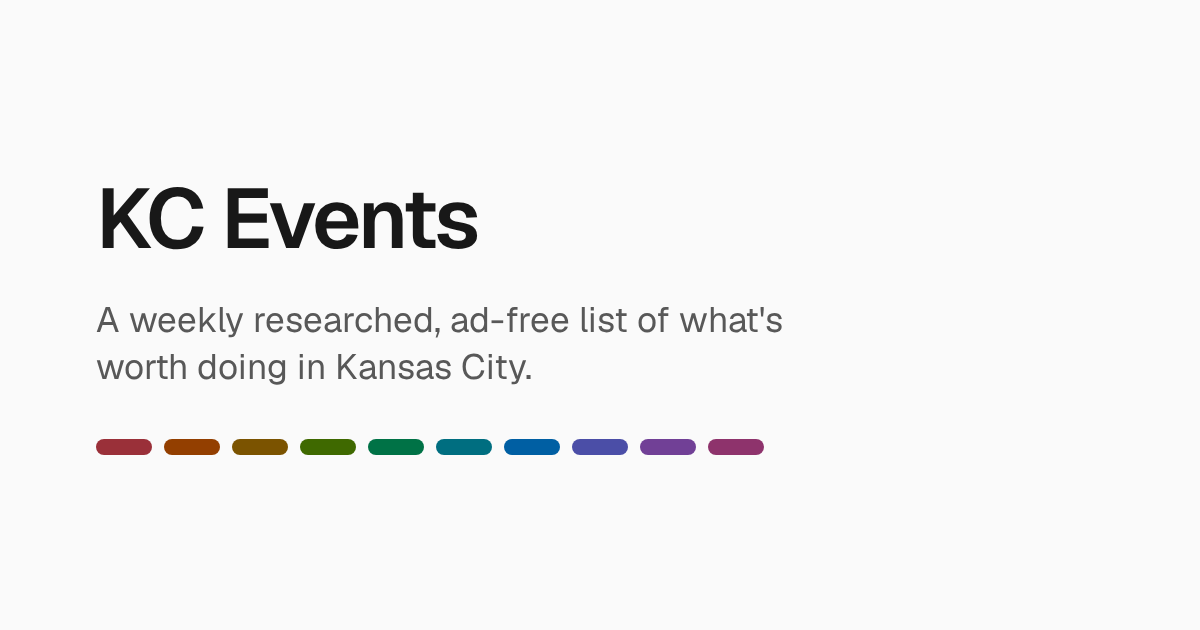
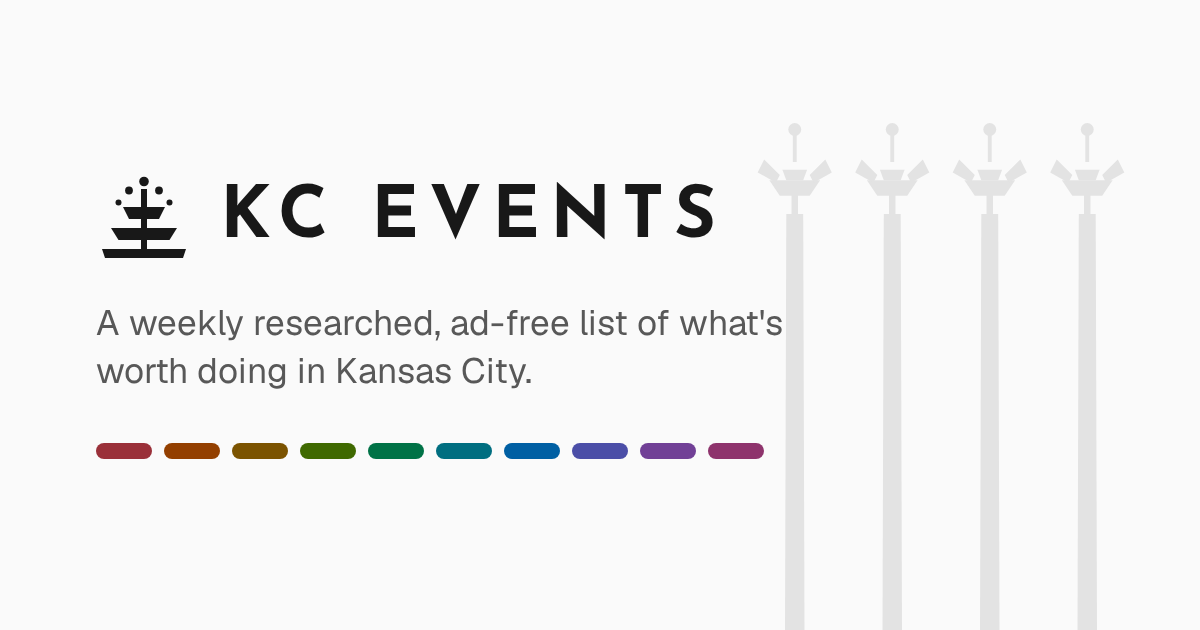
Give the site its Kansas City marks: a fountain, a Deco wordmark, the flag's red
The header sets the site's name as its one piece of display type, Josefin Sans in tracked
capitals for a skyline that is mostly Art Deco, behind a fountain mark for the City of
Fountains. The same mark is the home-screen icon and leads the share image, which now has
Bartle Hall's four pylons and their Sky Stations rising at its right in the rule's grey. The
tab's icon stays the date tile, which carries today's date.

Don't miss takes the city flag's red, as a solid pill where a kind's chip is a tint, so it is
never read as a kind; the focus ring moves a few degrees to the flag's blue. The footer says
the list covers both sides of the state line, Lawrence included.

The endpoints test accepts the own-page wording for "verified from" that #53 introduced; the
always-there guard still fails on the 2026-10-06 dataset (Crossroads returns 403), which this
change does not touch.

Changed region(s): [[0.0617, 0.2714, 0.6167, 0.4222], [0.0617, 0.4825, 0.6475, 0.6333], [0.0617, 0.6937, 0.6475, 0.754]]

diff --git a/site/scripts/share-image.html b/site/scripts/share-image.html
@@ -1,5 +1,5 @@
 <!doctype html>
-<!-- The 1200x630 share image. Rendered to public/og.png by share-image.ts, by hand, when the design changes; share-image.ts fills the tagline from site.config.ts. Light-scheme tokens copied inline; the swatches are the ten hued kinds. -->
+<!-- The 1200x630 share image. Rendered to public/og.png by share-image.ts, by hand, when the design changes; share-image.ts fills the tagline from site.config.ts and the mark from src/lib/mark.ts. Light-scheme tokens copied inline; the swatches are the ten hued kinds. The skyline is Bartle Hall's four pylons with their Sky Stations, in the rule's grey. -->
 <html lang="en">
   <head>
     <meta charset="utf-8" />
@@ -10,9 +10,15 @@
         font-weight: 100 900;
         src: url("../node_modules/@fontsource-variable/geist/files/geist-latin-wght-normal.woff2") format("woff2-variations");
       }
-      :root { --bg: oklch(0.985 0 0); --fg: oklch(0.21 0 0); --fg-muted: oklch(0.46 0 0); --text-2xl: 1.75rem; --text-xl: 1.375rem; }
+      @font-face {
+        font-family: "Josefin Sans";
+        font-weight: 700;
+        src: url("../node_modules/@fontsource/josefin-sans/files/josefin-sans-latin-700-normal.woff2") format("woff2");
+      }
+      :root { --bg: oklch(0.985 0 0); --fg: oklch(0.21 0 0); --fg-muted: oklch(0.46 0 0); --rule: oklch(0.915 0 0); --text-2xl: 1.75rem; --text-xl: 1.375rem; }
       html, body { margin: 0; width: 1200px; height: 630px; }
       body {
+        position: relative; overflow: hidden;
         background: var(--bg);
         color: var(--fg);
         font-family: "Geist Variable", system-ui, sans-serif;
@@ -23,15 +29,19 @@
         box-sizing: border-box;
         -webkit-font-smoothing: antialiased;
       }
-      h1 { margin: 0; font-size: calc(var(--text-2xl) * 3); font-weight: 600; letter-spacing: -0.035em; line-height: 1.05; }
+      /* The name as the header sets it: the fountain mark, then tracked capitals in the display face. */
+      h1 { margin: 0; display: flex; align-items: center; gap: 28px; font-family: "Josefin Sans", sans-serif; font-size: 72px; font-weight: 700; text-transform: uppercase; letter-spacing: 0.14em; line-height: 1; }
+      h1 svg { width: 96px; height: 96px; flex: none; }
       /* The kind palette, as a row of swatches: the site's colour is the kinds'. */
       .kinds { display: flex; gap: 12px; margin-top: 48px; }
       .kinds span { width: 56px; height: 16px; border-radius: 8px; }
-      p { margin: 32px 0 0; max-width: 22em; font-size: calc(var(--text-xl) * 1.6); line-height: 1.35; color: var(--fg-muted); }
+      p { margin: 32px 0 0; max-width: 20em; font-size: calc(var(--text-xl) * 1.6); line-height: 1.35; color: var(--fg-muted); }
+      /* Bartle Hall's pylons, behind the text at the right, rising from the bottom edge. */
+      .skyline { position: absolute; right: 64px; bottom: 0; width: 390px; height: 520px; color: var(--rule); }
     </style>
   </head>
   <body>
-    <h1>KC Events</h1>
+    <h1><span id="mark"></span>KC Events</h1>
     <p id="tagline"></p>
     <div class="kinds" aria-hidden="true">
       <span style="background: oklch(0.47 0.14 20)"></span><span style="background: oklch(0.47 0.14 56)"></span>
@@ -40,5 +50,23 @@
       <span style="background: oklch(0.47 0.14 245)"></span><span style="background: oklch(0.47 0.14 278)"></span>
       <span style="background: oklch(0.47 0.14 308)"></span><span style="background: oklch(0.47 0.14 345)"></span>
     </div>
+    <svg class="skyline" viewBox="0 0 300 400" fill="currentColor" aria-hidden="true">
+      <defs>
+        <!-- One pylon: a slender shaft under a Sky Station, the flared finial with a sphere above. -->
+        <g id="pylon">
+          <path d="M31 80h13l1 320H30z" />
+          <rect x="35" y="62" width="5" height="18" />
+          <path d="M18 54h39l-8 12H26z" />
+          <path d="M14 38l12 12-3 6-14-8zM61 38 49 50l3 6 14-8z" />
+          <path d="M28 46h19l-3 8H31z" />
+          <rect x="36" y="18" width="3" height="22" />
+          <circle cx="37.5" cy="15" r="5" />
+        </g>
+      </defs>
+      <use href="#pylon" x="0" />
+      <use href="#pylon" x="75" />
+      <use href="#pylon" x="150" />
+      <use href="#pylon" x="225" />
+    </svg>
   </body>
 </html>

diff --git a/site/src/styles/tokens.css b/site/src/styles/tokens.css
@@ -21,7 +21,11 @@
   /* Links, selection, and the saved state are ink, not a hue: a hue would read as one more kind. */
   --accent: oklch(0.21 0 0);
   --accent-fg: oklch(1 0 0);
-  --focus: oklch(0.55 0.2 260);
+  --focus: oklch(0.56 0.15 238);
+  /* The city flag's two colours (its 2023 design: carmine over NCS blue, a white fountain between). Red marks
+     don't-miss, the one state that is not a kind, as a solid pill where a kind's chip is a tint, so it is never read as
+     a kind; blue is the focus ring. Their lightness is set for the words on them, not the flag's. */
+  --flag-red: oklch(0.55 0.2 27); --flag-red-fg: oklch(1 0 0);
   /* A pressed filter that is not a kind: a grey tint under ink, the same shape as a pressed kind's tint and shade. */
   --pressed-tint: oklch(0.94 0 0);
   /* The kinds */
@@ -36,8 +40,10 @@
   --kind-music: oklch(0.47 0.14 308); --kind-music-tint: oklch(0.945 0.045 308);
   --kind-theater-dance: oklch(0.47 0.14 345); --kind-theater-dance-tint: oklch(0.945 0.045 345);
   --kind-other: oklch(0.48 0 0); --kind-other-tint: oklch(0.94 0 0);
-  /* Type: one sans, with tabular figures where numbers line up. */
+  /* Type: one sans, with tabular figures where numbers line up. The display face is for the site's name alone: a
+     1920s geometric, for a skyline that is mostly Art Deco; it never sets a label, a button, or a heading. */
   --font: "Geist Variable", system-ui, sans-serif;
+  --font-display: "Josefin Sans", var(--font);
   --text-xs: 0.75rem; --text-sm: 0.875rem; --text-md: 1rem; --text-lg: 1.125rem; --text-xl: 1.375rem; --text-2xl: 1.75rem; --text-3xl: 2.25rem;
   --weight-regular: 400; --weight-medium: 500; --weight-strong: 600;
   --tracking-display: -0.03em; --tracking-heading: -0.02em;
@@ -56,7 +62,8 @@
   :root {
     --bg: oklch(0.17 0 0); --bg-raised: oklch(0.205 0 0); --fg: oklch(0.94 0 0); --fg-muted: oklch(0.76 0 0);
     --fg-faint: oklch(0.67 0 0); --rule: oklch(0.28 0 0); --rule-strong: oklch(0.43 0 0); --control-border: oklch(0.53 0 0);
-    --accent: oklch(0.94 0 0); --accent-fg: oklch(0.17 0 0); --focus: oklch(0.72 0.15 260);
+    --accent: oklch(0.94 0 0); --accent-fg: oklch(0.17 0 0); --focus: oklch(0.75 0.13 235);
+    --flag-red: oklch(0.68 0.19 27); --flag-red-fg: oklch(0.17 0 0);
     --pressed-tint: oklch(0.30 0 0);
     --kind-talks-readings: oklch(0.82 0.11 20); --kind-talks-readings-tint: oklch(0.31 0.06 20);
     --kind-food-drink: oklch(0.82 0.11 56); --kind-food-drink-tint: oklch(0.31 0.06 56);

diff --git a/site/scripts/apple-touch-icon.ts b/site/scripts/apple-touch-icon.ts
@@ -1,15 +1,15 @@
 /**
- * Run as `pnpm exec tsx scripts/apple-touch-icon.ts` after changing src/lib/favicon.ts: renders the static tile (no
- * day) to the committed public/apple-touch-icon.png, 180 px square on white, because iOS fills a transparent icon with
- * black. The PNG carries the SVG it was drawn from as a text chunk, so a test can tell when it has gone stale.
+ * Run as `pnpm exec tsx scripts/apple-touch-icon.ts` after changing src/lib/mark.ts: renders the fountain mark to the
+ * committed public/apple-touch-icon.png, 180 px square on white, because iOS fills a transparent icon with black. The
+ * PNG carries the SVG it was drawn from as a text chunk, so a test can tell when it has gone stale.
  */
 import { writeFileSync } from "node:fs";
 import { chromium } from "@playwright/test";
-import { faviconSvg } from "../src/lib/favicon.ts";
+import { markSvg } from "../src/lib/mark.ts";
 import { withPngSource } from "../src/build/png-source.ts";
 const browser = await chromium.launch();
 const page = await browser.newPage({ viewport: { width: 180, height: 180 }, deviceScaleFactor: 1 });
-await page.setContent(`<body style="margin:0;background:#fff;display:grid;place-items:center;height:180px">${faviconSvg().replace("<svg ", '<svg width="140" height="140" ')}</body>`);
+await page.setContent(`<body style="margin:0;background:#fff;display:grid;place-items:center;height:180px">${markSvg().replace("<svg ", '<svg width="124" height="124" ')}</body>`);
 const png = await page.screenshot();
 await browser.close();
-writeFileSync(new URL("../public/apple-touch-icon.png", import.meta.url), withPngSource(png, faviconSvg()));
+writeFileSync(new URL("../public/apple-touch-icon.png", import.meta.url), withPngSource(png, markSvg()));

diff --git a/site/src/lib/mark.ts b/site/src/lib/mark.ts
@@ -1,0 +1,15 @@
+/**
+ * The site's mark: a fountain, for the City of Fountains. Three stepped basins under a jet and five drops, filled in
+ * currentColor so it takes the ink of wherever it sits: the header beside the name, the home-screen icon, the share
+ * image. (The tab's icon stays the date tile in favicon.ts, which carries today's date; the mark has no number to
+ * show.) Drawn as flat shapes so it reads at 20 px.
+ */
+export const MARK_VIEWBOX = "0 0 32 32";
+export const MARK_INNER =
+  '<circle cx="16" cy="3.5" r="1.6"/><circle cx="11" cy="6.5" r="1.3"/><circle cx="21" cy="6.5" r="1.3"/><circle cx="7.5" cy="10.5" r="1"/><circle cx="24.5" cy="10.5" r="1"/>' +
+  '<path d="M15 6h2v6h-2z"/><path d="M9 12h14l-2 4H11z"/><path d="M15 16h2v3h-2z"/><path d="M5 19h22l-2.5 4h-17z"/><path d="M15 23h2v3h-2z"/><path d="M2 26h28l-1 3H3z"/>';
+
+/** The mark as a standalone SVG in `ink` (a hex colour, since an image cannot read the page's tokens). */
+export function markSvg(ink = "#171717"): string {
+  return `<svg xmlns="http://www.w3.org/2000/svg" viewBox="${MARK_VIEWBOX}" fill="${ink}">${MARK_INNER}</svg>`;
+}

diff --git a/site/src/styles/base.css b/site/src/styles/base.css
@@ -59,15 +59,16 @@ p a, .prose a { text-decoration: underline; }
   white-space: nowrap;
 }
 
-/* Don't miss, in words and in ink, on an explorer row and an event page: it reads in grayscale and to a screen reader,
-   and no hue is mistaken for a kind. */
+/* Don't miss, in words and in the city flag's red, on an explorer row and an event page: solid where a kind's chip is
+   tinted, so no hue is mistaken for a kind, and it still reads in grayscale and to a screen reader. */
 .dont-miss {
   display: inline-flex; align-items: center;
   font-size: var(--text-xs);
   font-weight: var(--weight-medium);
   line-height: 1.6;
-  color: var(--fg);
-  border: 1px solid var(--fg);
+  color: var(--flag-red-fg);
+  background: var(--flag-red);
+  border: 1px solid var(--flag-red);
   border-radius: 999px;
   padding: 0 var(--space-2);
   white-space: nowrap;

diff --git a/site/test/mark.test.ts b/site/test/mark.test.ts
@@ -1,0 +1,19 @@
+// @vitest-environment node
+import { readFileSync } from "node:fs";
+import { describe, expect, it } from "vitest";
+import { pngSource } from "../src/build/png-source";
+import { MARK_INNER, markSvg } from "../src/lib/mark";
+
+describe("markSvg", () => {
+  it("is the fountain, filled in the given ink", () => {
+    expect(markSvg("#abc")).toBe(`<svg xmlns="http://www.w3.org/2000/svg" viewBox="0 0 32 32" fill="#abc">${MARK_INNER}</svg>`);
+    expect(markSvg()).toContain('fill="#171717"');
+  });
+});
+
+describe("the committed apple-touch-icon", () => {
+  it("was drawn from the current mark (else rerun scripts/apple-touch-icon.ts)", () => {
+    const png = readFileSync(new URL("../public/apple-touch-icon.png", import.meta.url));
+    expect(pngSource(png)).toBe(markSvg());
+  });
+});

diff --git a/site/scripts/share-image.ts b/site/scripts/share-image.ts
@@ -1,8 +1,10 @@
 import { chromium } from "@playwright/test";
+import { MARK_INNER, MARK_VIEWBOX } from "../src/lib/mark.ts";
 import { siteConfig } from "../src/site.config.ts";
 const browser = await chromium.launch();
 const page = await browser.newPage({ viewport: { width: 1200, height: 630 }, deviceScaleFactor: 1 });
 await page.goto(new URL("./share-image.html", import.meta.url).toString());
+await page.locator("#mark").evaluate((el, svg) => { el.outerHTML = svg; }, `<svg viewBox="${MARK_VIEWBOX}" fill="currentColor">${MARK_INNER}</svg>`);
 await page.locator("#tagline").evaluate((el, text) => { el.textContent = text; }, siteConfig.tagline);
 await page.screenshot({ path: new URL("../public/og.png", import.meta.url).pathname });
 await browser.close();

diff --git a/site/test/favicon.test.ts b/site/test/favicon.test.ts
@@ -1,7 +1,5 @@
 // @vitest-environment node
-import { readFileSync } from "node:fs";
 import { describe, expect, it } from "vitest";
-import { pngSource } from "../src/build/png-source";
 import { faviconSvg } from "../src/lib/favicon";
 
 describe("faviconSvg", () => {
@@ -25,12 +23,5 @@ describe("faviconSvg", () => {
     expect(() => faviconSvg(0)).toThrow();
     expect(() => faviconSvg(32)).toThrow();
     expect(() => faviconSvg(1.5)).toThrow();
-  });
-});
-
-describe("the committed apple-touch-icon", () => {
-  it("was drawn from the current blank tile (else rerun scripts/apple-touch-icon.ts)", () => {
-    const png = readFileSync(new URL("../public/apple-touch-icon.png", import.meta.url));
-    expect(pngSource(png)).toBe(faviconSvg());
   });
 });

diff --git a/site/test/endpoints.test.ts b/site/test/endpoints.test.ts
@@ -44,7 +44,8 @@ describe.skipIf(!matchesGenerated)("built output", () => {
     expect(html).toContain('"@type":"Event"');
     expect(html).not.toContain("addressRegion");
     expect(html).toContain("/og.png");
-    expect(html).toContain("from the page linked above");
+    // Verified from the page linked above when the list is the event's own page, else from the list it was read from (#53).
+    expect(html).toMatch(/Date and venue verified .* from (the page linked above|<a [^>]*>the list at [^<]+<\/a>)\./);
   });
 
   it("gives a recurring event's page no Add to calendar link, and a dated one's page has it", () => {
